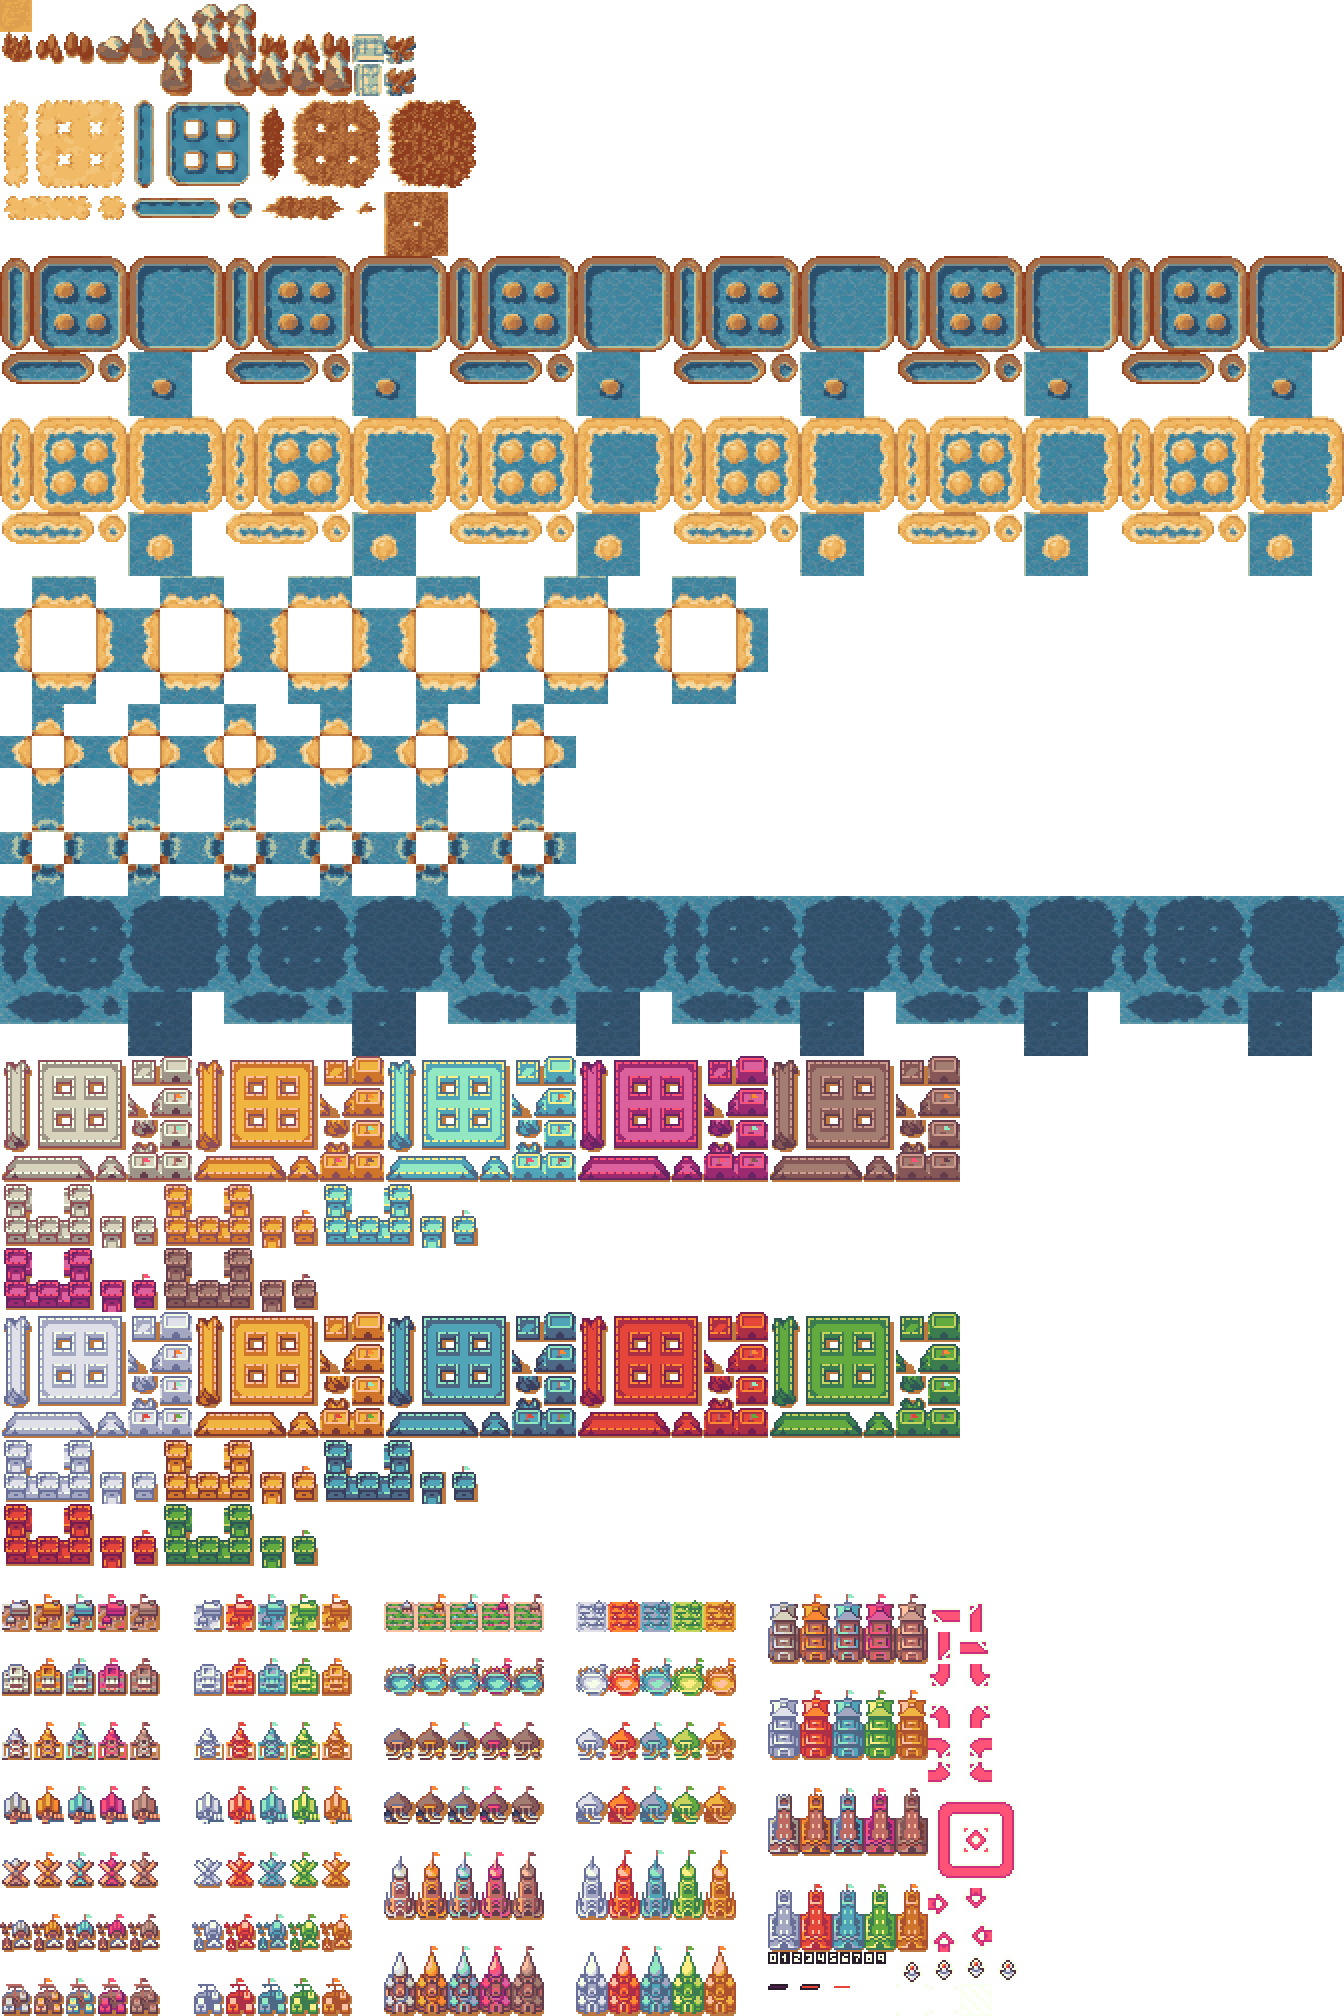
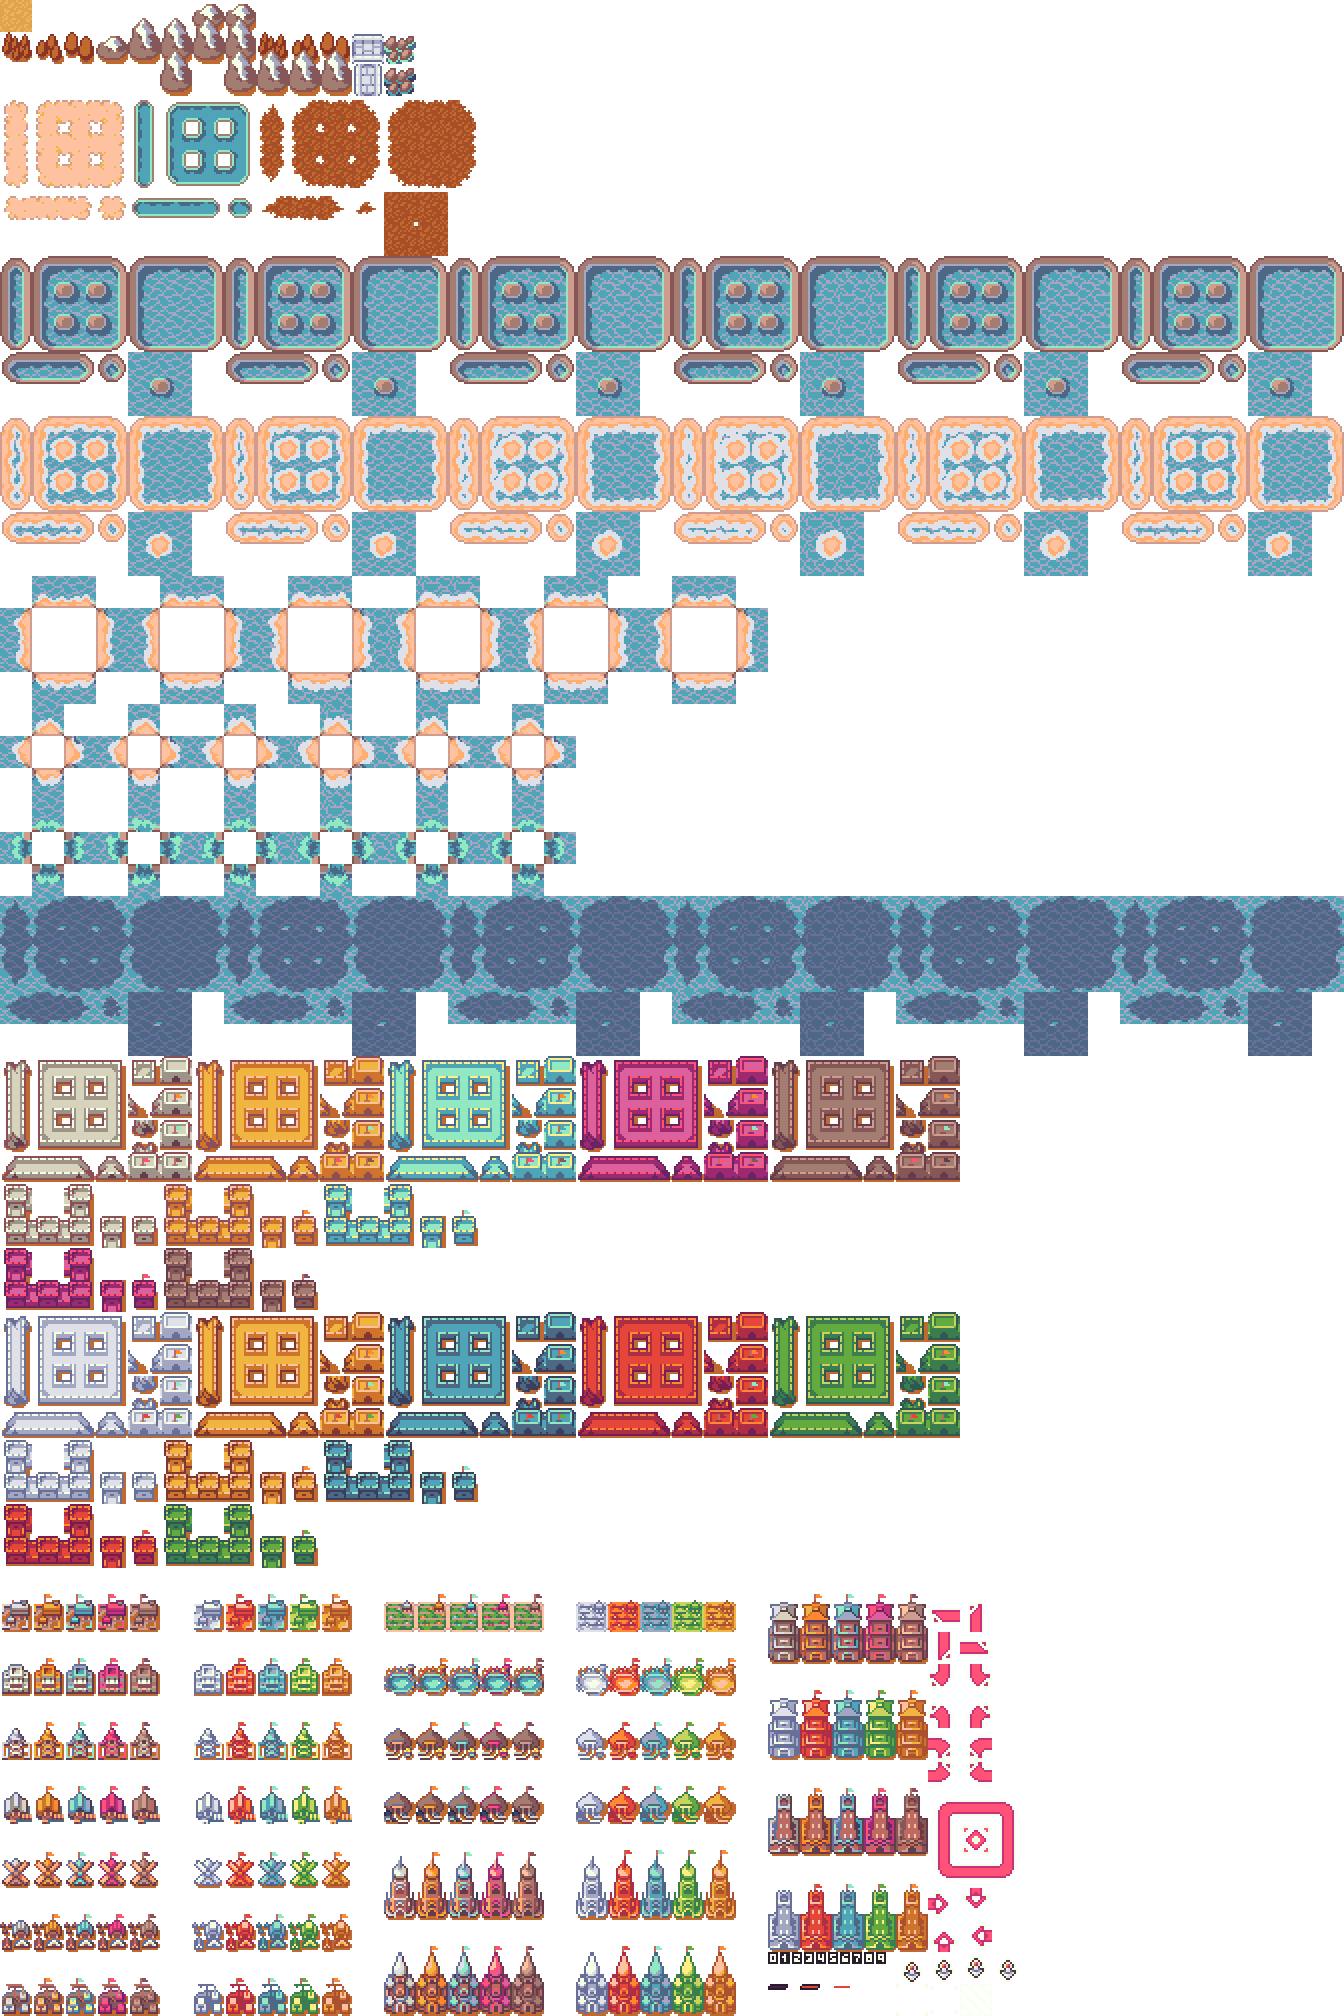
Recolor the green sheet for autumn instead of the blurry upload
overworld-autumn.png is now overworld.png with only its greens swapped
(golden grass, rust trees and meadows), made by the new
recolor-autumn.js tileset script, so it stays pixel-crisp.

Claude-Session: https://claude.ai/code/session_01A4Rh9FCBCCDtynCAE2tqW2

Changed region(s): [[0.0, 0.0, 1.0, 0.5312]]

diff --git a/.claude/skills/tileset/scripts/recolor-autumn.js b/.claude/skills/tileset/scripts/recolor-autumn.js
@@ -1,0 +1,41 @@
+// Recolors the summer overworld sheet into the autumn one: only its greens
+// change (grass, tree bodies and shade, mountain tufts, the dark-grass
+// meadow set, and the grass lip under buildings and walls). The green
+// building palette keeps its greens. Run from the repo root:
+//
+//   node .claude/skills/tileset/scripts/recolor-autumn.js src/assets/overworld.png src/assets/overworld-autumn.png
+
+import { decode, encode } from './dump-png.js';
+
+const [input, output] = process.argv.slice(2);
+if (!input || !output) throw new Error('Usage: recolor-autumn.js <summer sheet> <autumn sheet>');
+
+const TILE = 32;
+// Everywhere on the sheet, except tree shade, which is also the green
+// building palette's: only swapped in the terrain rows (0-32).
+const COLORS = {
+  b7d463: 'e0a24e', // grass
+  ceda62: 'ebb55c', // grass specks
+  '84b14d': 'c06a32', // tree bodies, mountain tufts, building and wall lip
+  abc75c: 'd68a3f', // meadow specks
+};
+const TREE_SHADE = { '3b7d4f': '8a3424' };
+const TERRAIN_ROWS = 33;
+// The dark-grass meadow set (columns 8-14, rows 3-7) goes a deeper rust so
+// it reads against the golden grass.
+const MEADOW = { '84b14d': 'a94f27', abc75c: 'c06a32' };
+const inMeadow = (x, y) => x >= 8 * TILE && x < 15 * TILE && y >= 3 * TILE && y < 8 * TILE;
+
+const hex = ([r, g, b]) => [r, g, b].map((v) => v.toString(16).padStart(2, '0')).join('');
+const rgb = (h) => [0, 2, 4].map((i) => parseInt(h.slice(i, i + 2), 16));
+
+const rows = decode(input).map((row, y) =>
+  row.map((px, x) => {
+    if (px[3] === 0) return px;
+    const color = hex(px);
+    const swap = (inMeadow(x, y) && MEADOW[color]) || COLORS[color] || (y < TERRAIN_ROWS * TILE && TREE_SHADE[color]);
+    return swap ? [...rgb(swap), px[3]] : px;
+  }),
+);
+encode(output, rows);
+console.log(`${input} -> ${output}`);

diff --git a/src/game/tileset.ts b/src/game/tileset.ts
@@ -41,8 +41,8 @@ export const TERRAIN_SHEET = {
 // The seasons a map can be drawn in. Each has its own copy of the terrain
 // sheet with the same layout (so every frame number below works on all of
 // them): summer is the green overworld sheet; autumn (overworld-autumn.png)
-// is it with golden grass, rust-red woods and darker water over the top 33
-// rows, buildings left as they are; winter (overworld-winter.png) is the
+// is it with its greens recolored (golden grass, rust-red woods and
+// meadows), everything else left as it is; winter (overworld-winter.png) is the
 // pack's snow sheet, snowy buildings included.
 export const SEASONS = ['summer', 'autumn', 'winter'] as const;
 export type Season = (typeof SEASONS)[number];

diff --git a/.claude/skills/tileset/SKILL.md b/.claude/skills/tileset/SKILL.md
@@ -78,7 +78,7 @@ Terrain is **blob-autotiled on the map's own cells** (not a dual grid). Grass (`
 Two more copies of the overworld sheet, 1344x2016 with **exactly the same layout** as `overworld.png`, so every `[column, row]` and frame number works on all three. `SEASON_TERRAIN_SHEETS` in `tileset.ts` names their texture keys (`overworld-autumn`, `overworld-winter`), `TERRAIN_SHEET_URLS` in `sprites.ts` their files; a level's `season` (from its region) picks the one GridScene draws terrain, forests, mountains and buildings from. The cursor and movement arrow always come from the summer sheet. `map-props.png` (bridges, gates, fords, spikes) has no seasonal copy.
 
 - **Winter** (`overworld-winter.png`): the pack's snow tilesheet (`Tactical RPG Overworld Pack - Snow Tilesheet.png`, 3072x3072 at 3x, same used area as the green one), rescaled with the same `rescale-png.js --from 3 --to 2 --crop 672x1008` command. Snow grass, icy lavender water, grey-blue pines and round trees, a pink dirt path, and snow-roofed buildings in every palette.
-- **Autumn** (`overworld-autumn.png`): rows 0–32 (grass, trees, mountains, sand, puddle, dark grass, all the water sets) are an autumn redraw: golden grass (`#de9f4e` / `#e9ab51`), a golden sand path, rust-red woods and dark grass, deeper blue water. Rows 33–62 (buildings, walls, UI) are the summer sheet's, with its building/wall grass lip `#84b14d` turned rust `#be7940`. The upload was a blurry, resampled image (1415x1111, ~2.11x the native art, white background, cropped by ~2px on the right and bottom), so `rebuild-autumn.py` (project files `art/seasons/raw/`, with both raw uploads) rebuilt it: it samples the upload at each native pixel (scale 2.111 x 2.115, offset 0, 1), takes the summer sheet's alpha, quantizes to 48 colors, makes static water pixels the same in every animation frame, fills the cropped edge from matching pixels, and snaps the base grass tile to its two colors so it tiles without seams. Expect a little dithery noise in the water and dark grass.
+- **Autumn** (`overworld-autumn.png`): `overworld.png` with only its greens swapped, by `node .claude/skills/tileset/scripts/recolor-autumn.js src/assets/overworld.png src/assets/overworld-autumn.png` (rerun it after changing the summer sheet): grass `#b7d463` / `#ceda62` to golden `#e0a24e` / `#ebb55c`; tree bodies, mountain tufts and the grass lip under buildings and walls `#84b14d` to rust `#c06a32`; tree shade `#3b7d4f` to `#8a3424` (terrain rows 0–32 only, since the green building palette uses it too); the dark-grass meadow set (columns 8–14, rows 3–7) deeper, `#a94f27` / `#c06a32`. Water, sand, mountains and buildings are untouched. (An autumn tilesheet was uploaded too, kept in project files `art/seasons/raw/`, but it was a blurry resample, so the recolor replaced it.)
 
 `map-preview.ts --season autumn|winter` renders maps from these sheets.
 
